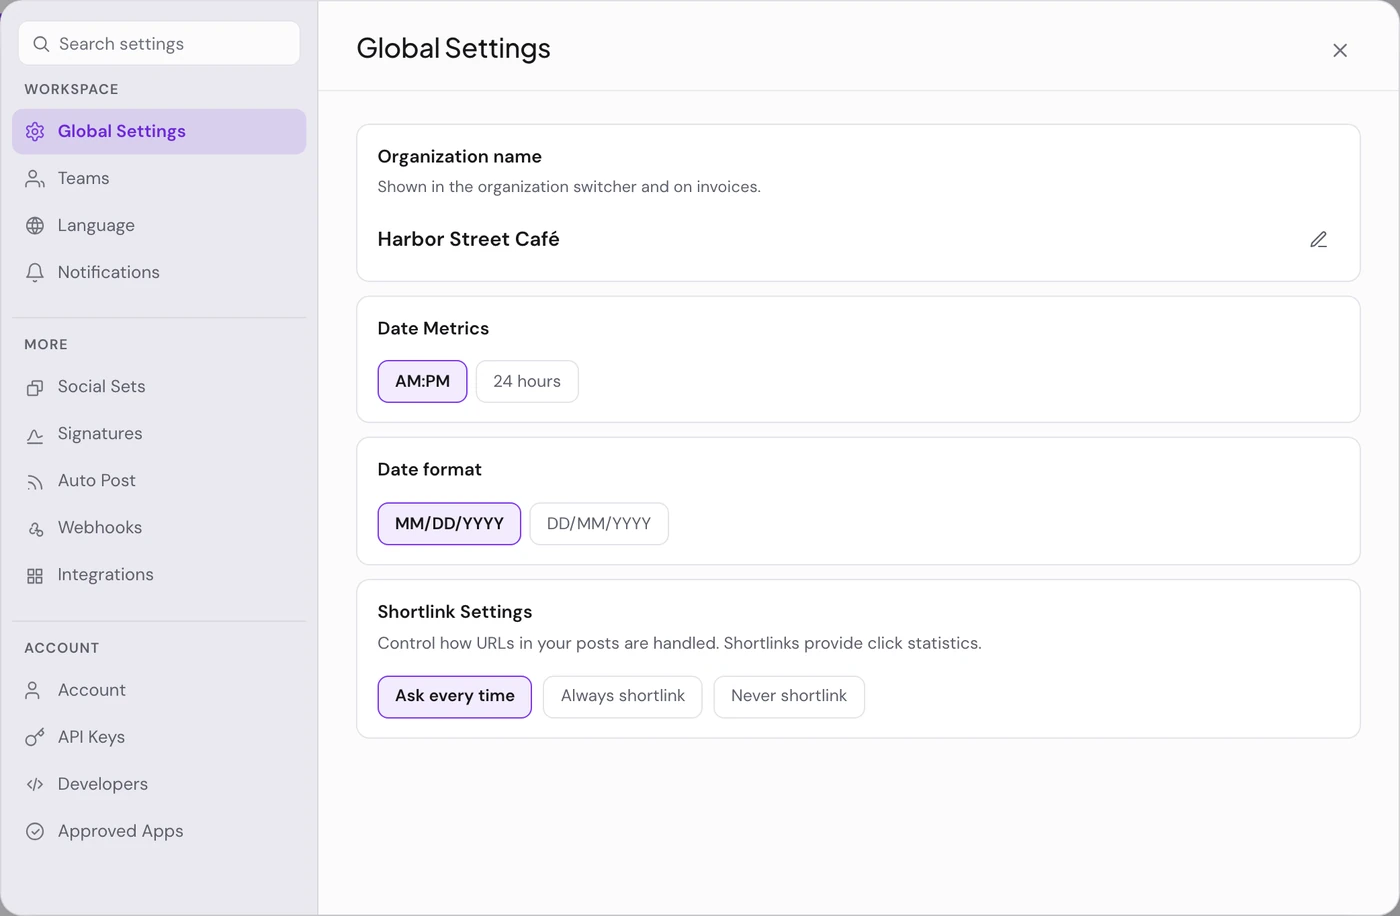
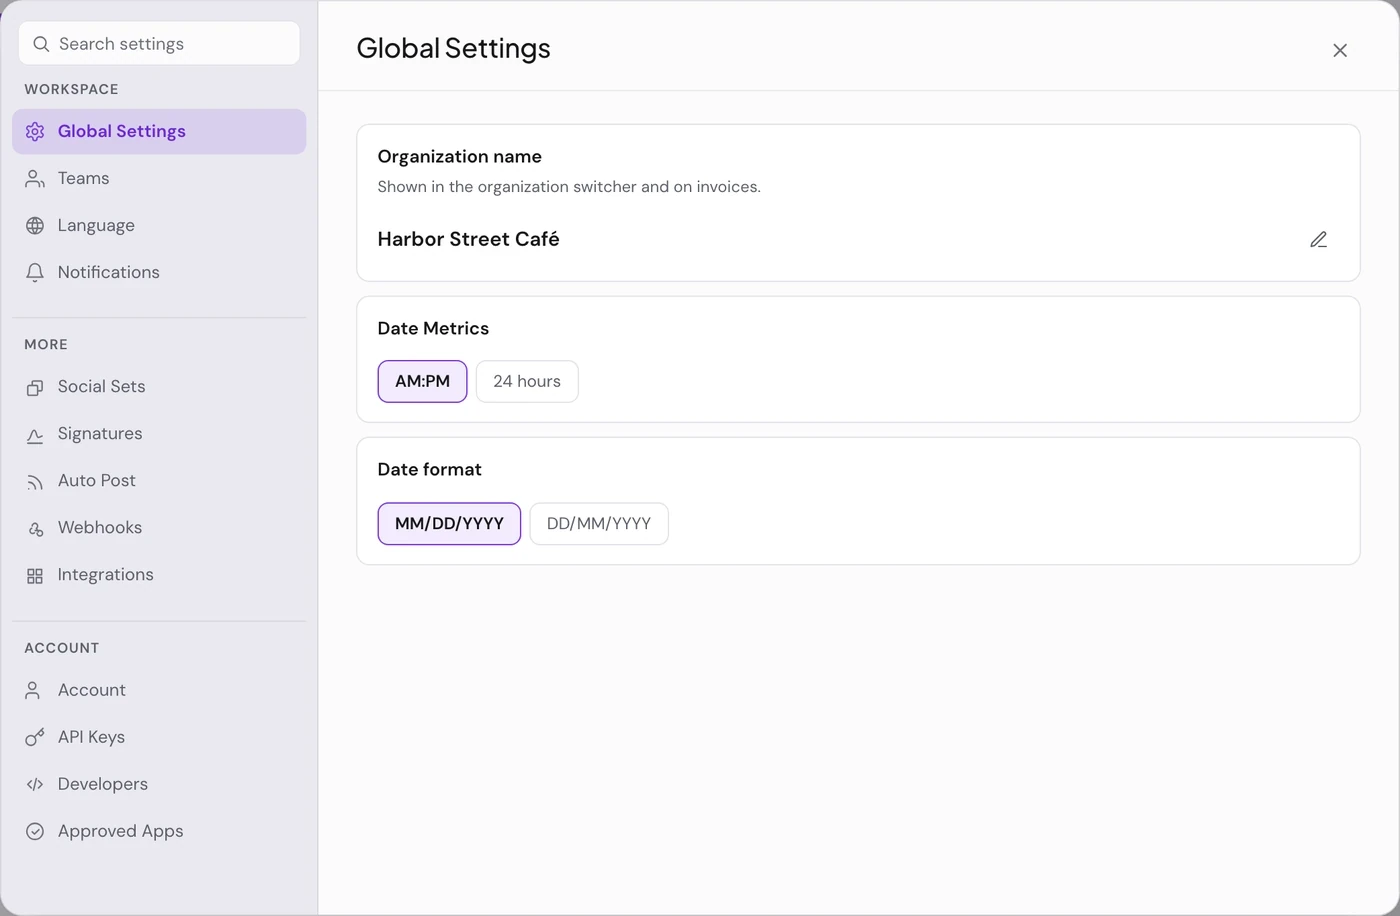
Describe the behaviour shipped in app v3.6.84, CLI 2.0.25, n8n 1.0.3 and chart 1.1.6.
The app, CLI and n8n fixes found while writing these docs are live, so
the pages now say what the fixed versions do instead of the old gaps:

- App: Publishing options (was Additional Settings), the Custom URL hint,
  Streak Ended Emails, HeyGen Landscape (16:9) and Portrait (9:16), the
  video form labels, and the new MCP video tool errors.
- API: an unknown video generator on /video/function answers 404; an
  update whose value[0].id is not a post answers 400 (quoted); removed
  channels are refused on posting, validation and channel routes, and a
  repeated delete answers 404. The spec gains the 404 response.
- UI: Stop repeating on a published repeating post, the Auto Post badge
  for draft-mode feeds, Leave workspace in the switcher (not your only
  workspace), and the short-link card and table hidden without a
  shortener; the settings screenshot no longer shows that card.
- CLI 2.0.25: unknown commands and flags fail with one line, "-text" is
  content, the empty -i check, and auth:login's message, all quoted from
  the built CLI. n8n 1.0.3: the node's new hints and params.
- Facts at app v3.6.84, CLI 2.0.25, n8n 1.0.3; the Helm page at chart
  1.1.6; the unused README badges carry the current versions.

diff --git a/SKILL.md b/SKILL.md
@@ -138,7 +138,7 @@ Copy the key from PostQueen > Connections > API Keys. Only workspace admins can 
 
 **Option 2: your own auth server**
 
-PostQueen runs no login server for the CLI, so `postqueen auth:login` on its own only explains the API key. If the user runs the device-flow auth server from the CLI repository's `server/` folder, log in through it:
+PostQueen runs no login server for the CLI, so `postqueen auth:login` on its own only says where to get the API key, and exits 1. If the user runs the device-flow auth server from the CLI repository's `server/` folder, log in through it:
 ```bash
 postqueen auth:login --auth-server https://auth.example.com   # or set POSTQUEEN_AUTH_SERVER
 postqueen auth:logout                                          # remove the stored credentials
@@ -811,7 +811,7 @@ Client setup: https://docs.postqueen.ai/mcp/introduction
 # ⚠ AUTHENTICATE FIRST - required before any other command
 postqueen auth:status                                             # Check if authenticated
 export POSTQUEEN_API_KEY=key                                      # Set the API key
-postqueen auth:login                                              # Explains the API key (or logs in via your own --auth-server)
+postqueen auth:login                                              # Says where to get the API key and exits 1 (or logs in via your own --auth-server)
 
 # Discovery (only after auth is confirmed)
 postqueen integrations:list                           # Get integration IDs
